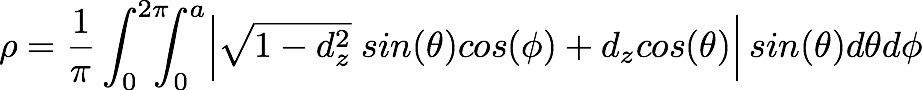
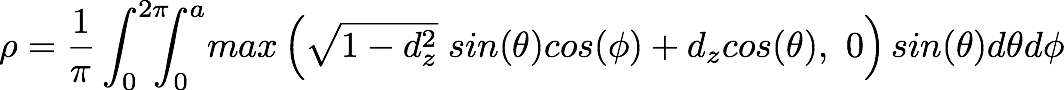
Fixed equation in realtimegi-pt2.

diff --git a/blog/realtimegi-pt2.html b/blog/realtimegi-pt2.html
@@ -148,9 +148,9 @@
 			While this removed the problem of estimating a filter radius, the expression still contains a singularity.
 			This time, however, there's a simple geometrical interpretation.
 			The cosine factor goes negative at the horizon of the hemisphere (which is incorrect).
-			We can fix that by adding an absolute value to cap it:
+			We can fix that by only considering positive values:
 		</p><div class="figure">
-			<img style="width: 100%; max-width: 461px" src="/images/realtimegi-pt2/rayf5.png" alt=""/></div><p>
+			<img style="width: 100%; max-width: 532px" src="/images/realtimegi-pt2/rayf5.png" alt=""/></div><p>
 			The downside is that we lose the closed-form expression.
 			One option is to construct a lookup table from this integral but I instead opted to find an approximate expression.
 			Let's find where the filter region just touches the border, which is the point where the error starts:
